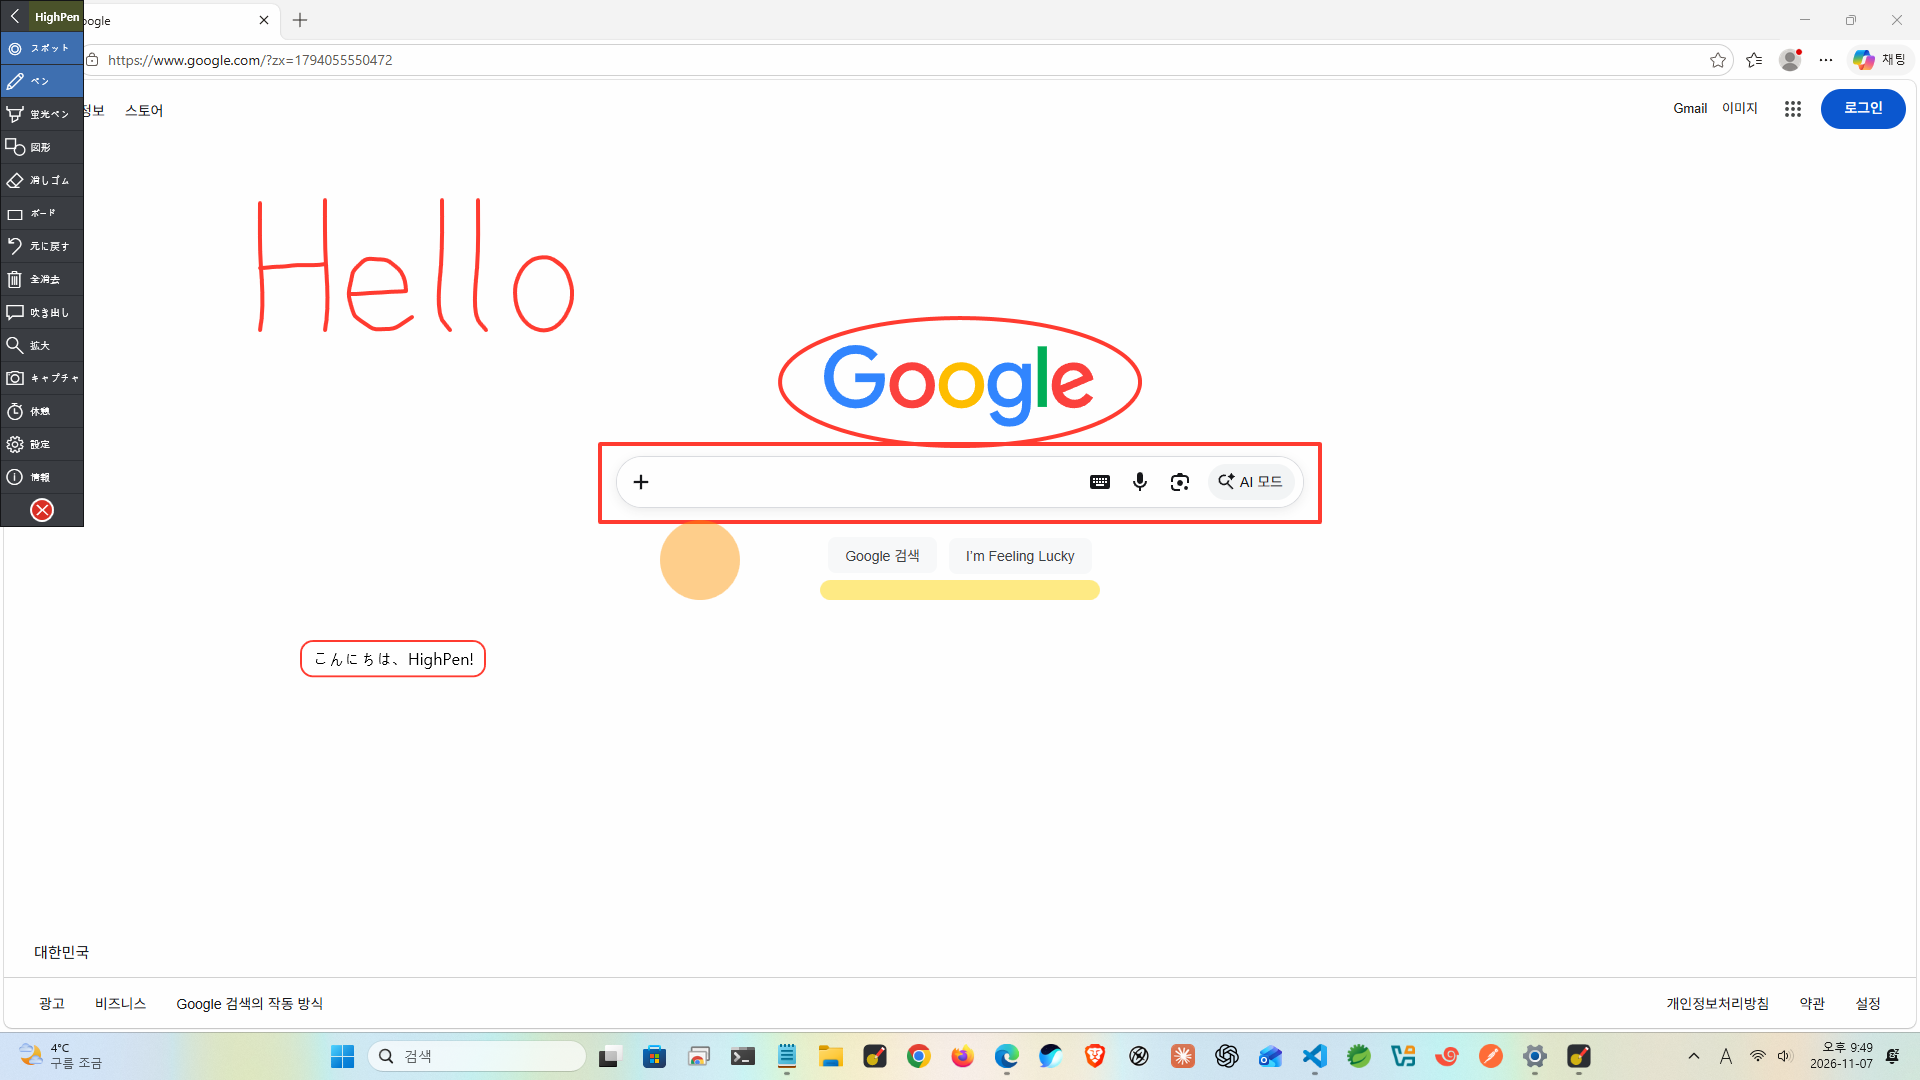
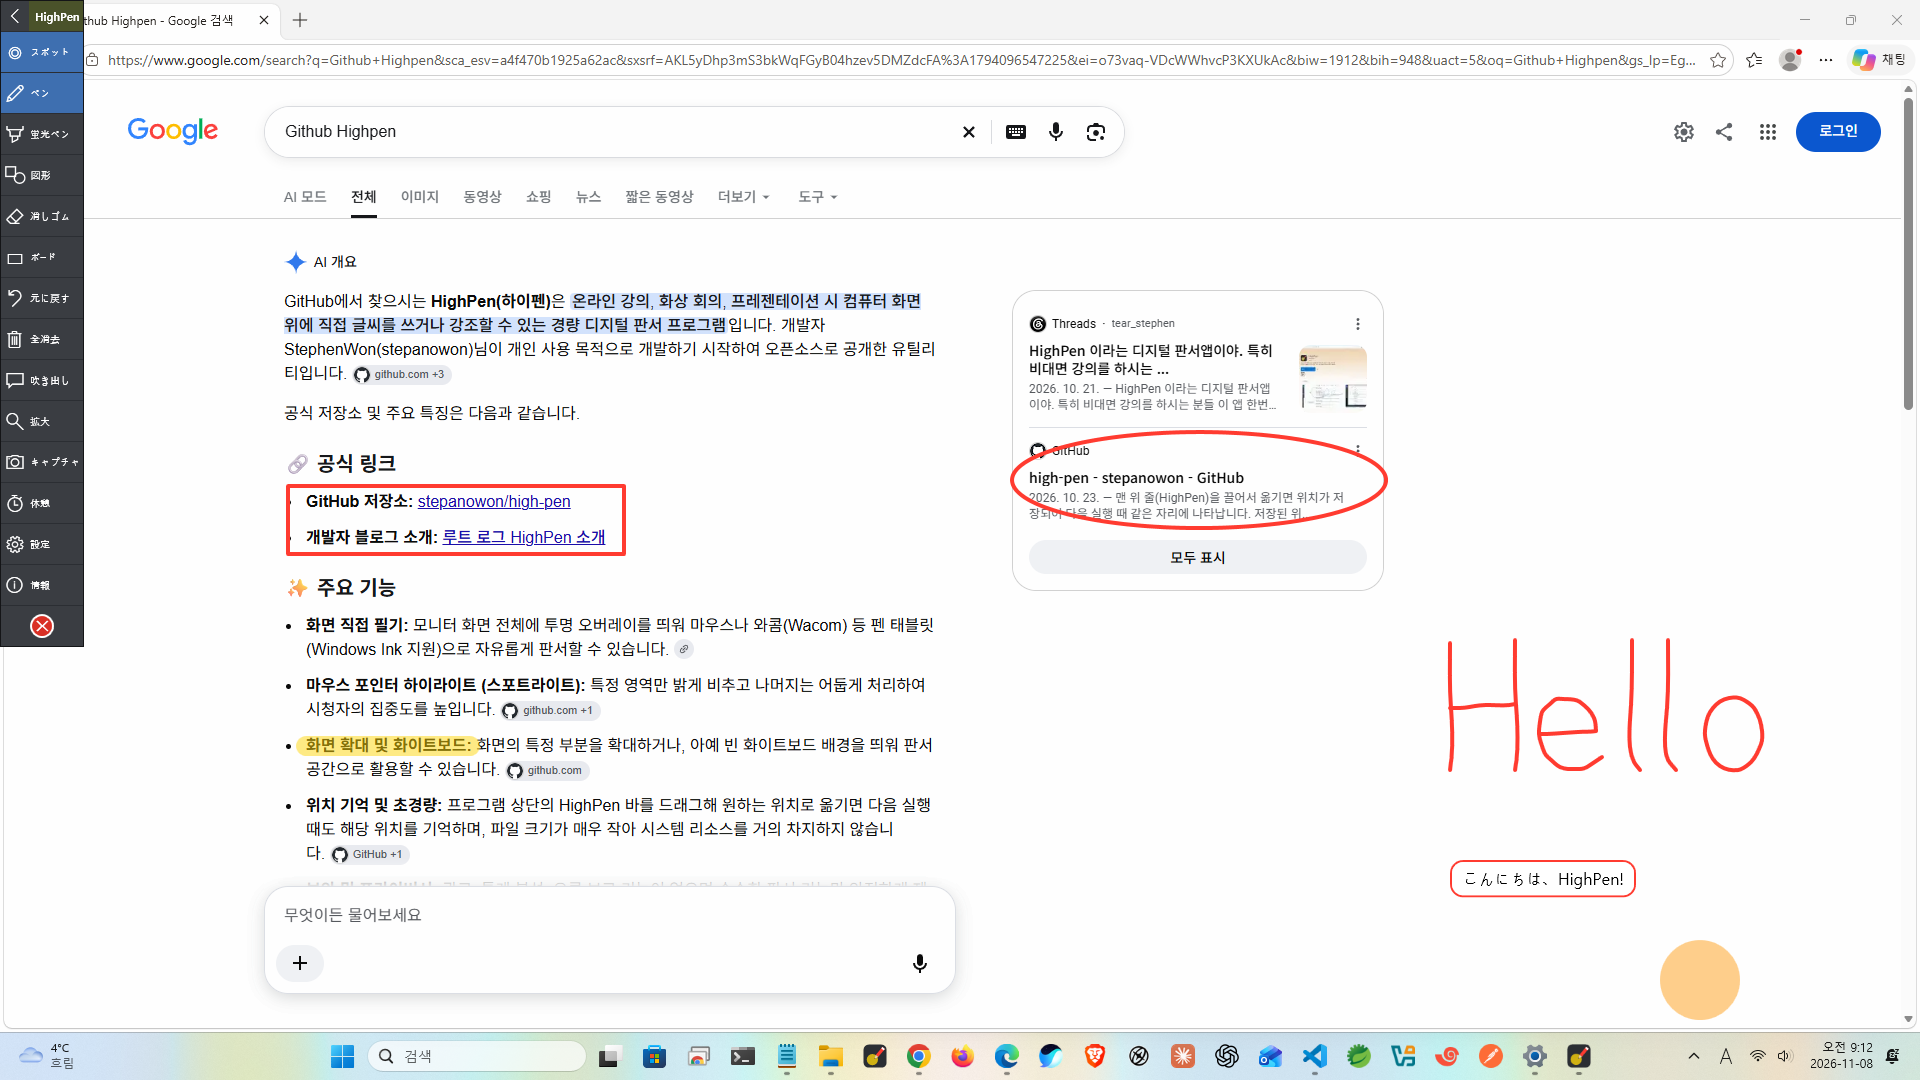
README: 1.9.1 스크린샷, 설정바 배치와 접기 설명 추가
- README 스크린샷 18장을 1.9.1 화면으로 다시 캡처
- Windows README(한·영·일)의 설정바 절을 옮기기와 배치, 접기,
  설정 패널과 버튼으로 나누고, 왼쪽·오른쪽 끝/맨 위·맨 아래 배치와
  펼친/접은 상태 스크린샷(언어별 6장) 추가
- 사용 방법 첫 문단에 끝에 붙이는 배치 안내 추가

diff --git a/windows/README.md b/windows/README.md
@@ -66,7 +66,7 @@ Windows 10/11 (.NET Framework 4.8 포함, 별도 설치 불필요)
 
 ## 사용 방법
 
-실행하면 작업 모니터의 좌측 상단에 설정바가 나타납니다. 설정바 맨 위 줄(HighPen)을 끌어 옮길 수 있고 위치는 기억됩니다. `<` 버튼으로 접고 펼 수 있습니다.
+실행하면 작업 모니터의 좌측 상단에 설정바가 나타납니다. 설정바 맨 위 줄(HighPen)을 끌어 옮길 수 있고 위치는 기억됩니다. `<` 버튼으로 접고 펼 수 있고, 화면 왼쪽·오른쪽 끝에 세로로 붙이거나 맨 위·맨 아래에 가로로 붙일 수 있습니다([설정바](#설정바) 참고).
 
 ### 언어 바꾸기
 
@@ -263,10 +263,32 @@ Windows 10/11 (.NET Framework 4.8 포함, 별도 설치 불필요)
 
 ### 설정바
 
-- 맨 위 줄(HighPen)을 끌어서 옮기면 위치가 저장되어 다음 실행 때 같은 자리에 나타납니다. 저장된 위치가 화면 밖이면 좌측 상단으로 돌아옵니다.
-- 끌면서 포인터를 작업 영역의 맨 위나 맨 아래로 가져가면 설정바가 그 끝에 붙어 가로로 바뀝니다. 가로일 때는 높이를 줄이려고 버튼에 아이콘만 표시하며, 이름과 단축키는 툴팁으로 볼 수 있습니다. 왼쪽 끝의 HighPen을 끌어 끝에서 떼면 다시 세로가 됩니다. 세로 설정바가 작업 영역의 왼쪽이나 오른쪽 끝에 닿아 있으면 맨 위나 맨 아래로 가져가도 세로로 유지됩니다. 가로로 놓으면 작업 영역 폭보다 길어지는 모니터에서는 세로로 유지됩니다.
+설정바는 원하는 자리로 옮길 수 있고, 화면 왼쪽·오른쪽 끝이나 맨 위·맨 아래에 붙이거나 접어 둘 수 있습니다.
+
+#### 옮기기와 배치
+
+- 맨 위 줄(HighPen)을 끌어서 옮깁니다. 위치는 저장되어 다음 실행 때 같은 자리에 나타나고, 저장된 위치가 화면 밖이면 좌측 상단으로 돌아옵니다.
+- **왼쪽·오른쪽 끝:** 세로 설정바를 작업 영역의 왼쪽이나 오른쪽 끝에 붙여 둘 수 있습니다. 끝에 닿아 있는 세로 설정바는 맨 위나 맨 아래로 가져가도 세로로 유지됩니다. 가장 오른쪽에 두면 접기 버튼과 HighPen의 위치가 서로 바뀝니다.
+- **맨 위·맨 아래:** 끌면서 포인터를 작업 영역의 맨 위나 맨 아래로 가져가면 설정바가 그 끝에 붙어 가로로 바뀝니다. 가로일 때는 높이를 줄이려고 버튼에 아이콘만 표시하며, 이름과 단축키는 툴팁으로 볼 수 있습니다. 왼쪽 끝의 HighPen을 끌어 끝에서 떼면 다시 세로가 됩니다. 가로로 놓으면 작업 영역 폭보다 길어지는 모니터에서는 세로로 유지됩니다.
 - 설정바는 작동 모니터 밖으로 나가지 않습니다. 끌어서 옮길 때도, 펼치거나 설정 패널을 열어 커질 때도 작동 모니터의 작업 영역(작업표시줄 제외) 안에 머뭅니다.
-- 맨 위 줄 왼쪽의 `<` 버튼으로 접고 펼 수 있습니다. 접으면 HighPen 제목도 사라지고 `>` 버튼만 남아서, 설정바 뒤에 가려져 있던 화면을 클릭할 수 있습니다. `>`를 누르면 같은 자리에 다시 펼쳐집니다. 접힌 상태에서는 설정바를 끌어 옮길 수 없습니다. 설정바를 작업 영역의 가장 오른쪽에 두면 접기 버튼과 HighPen의 위치가 서로 바뀌고, 접어도 버튼이 그 자리에 남습니다.
+
+| 왼쪽 끝 | 오른쪽 끝 |
+|---|---|
+| ![왼쪽 끝에 붙인 세로 설정바](../screen/ko/toolbar-left.png) | ![오른쪽 끝에 붙인 세로 설정바](../screen/ko/toolbar-right.png) |
+| **맨 위** | **맨 아래** |
+| ![맨 위에 붙인 가로 설정바](../screen/ko/toolbar-top.png) | ![맨 아래에 붙인 가로 설정바](../screen/ko/toolbar-bottom.png) |
+
+#### 접기
+
+- 맨 위 줄 왼쪽의 `<` 버튼이나 Ctrl+Alt+H로 접고 폅니다. 접으면 HighPen 제목도 사라지고 `>` 버튼만 남아서, 설정바 뒤에 가려져 있던 화면을 클릭할 수 있습니다. `>`를 누르면 같은 자리에 다시 펼쳐집니다.
+- 접힌 상태에서는 설정바를 끌어 옮길 수 없습니다.
+- 가장 오른쪽에 둔 설정바는 접어도 버튼이 그 자리(오른쪽 끝)에 남습니다.
+
+| 펼친 상태 | 접은 상태 |
+|---|---|
+| ![펼친 설정바](../screen/ko/toolbar-expanded.png) | ![접은 설정바](../screen/ko/toolbar-collapsed.png) |
+
+#### 설정 패널과 버튼
 
 - 설정 패널은 설정바 오른쪽에 열리고, 설정바가 화면 오른쪽 끝에 있어 공간이 부족하면 왼쪽에 열립니다. 가로일 때는 화면 안쪽(위에 붙으면 아래, 아래에 붙으면 위)에 항목을 4개 열로 펼쳐 열고, 높이가 부족하면 스크롤됩니다.
 - 각 버튼에 마우스를 올리면 이름과 단축키가 툴팁으로 표시됩니다.

diff --git a/windows/README.en.md b/windows/README.en.md
@@ -66,7 +66,7 @@ Windows 10/11 (.NET Framework 4.8 is built in, nothing else to install)
 
 ## Usage
 
-When you start the app, the toolbar appears in the top-left corner of the active monitor. Drag the top row (HighPen) to move it; the position is remembered. Use the `<` button to collapse and expand it.
+When you start the app, the toolbar appears in the top-left corner of the active monitor. Drag the top row (HighPen) to move it; the position is remembered. Use the `<` button to collapse and expand it. You can also attach it vertically to the left or right end of the screen, or horizontally to the top or bottom (see [Toolbar](#toolbar)).
 
 ### Changing the language
 
@@ -263,10 +263,32 @@ Choose the monitor the app works on with **Monitor** in the settings panel (or C
 
 ### Toolbar
 
-- Drag the top row (HighPen) to move the toolbar; the position is saved and used on the next launch. If the saved position is off screen, it returns to the top-left corner.
-- Bring the pointer to the top or bottom of the working area while dragging and the toolbar lies along that edge, horizontally. To keep it low, its buttons then show only their icons; the tooltips give their names and shortcuts. Drag HighPen at its left end away from the edge to make it vertical again. A vertical toolbar touching the left or right end of the working area stays vertical when brought to the top or bottom. On a monitor where the horizontal toolbar would be wider than the working area, it stays vertical.
+You can move the toolbar wherever you like, attach it to the left or right end or the top or bottom of the screen, or collapse it.
+
+#### Moving and placing it
+
+- Drag the top row (HighPen) to move it. The position is saved and used on the next launch; if the saved position is off screen, it returns to the top-left corner.
+- **Left or right end:** a vertical toolbar can sit against the left or right end of the working area. While it touches that end, it stays vertical even when brought to the top or bottom. At the far right, the collapse button and HighPen swap places.
+- **Top or bottom:** bring the pointer to the top or bottom of the working area while dragging and the toolbar lies along that edge, horizontally. To keep it low, its buttons then show only their icons; the tooltips give their names and shortcuts. Drag HighPen at its left end away from the edge to make it vertical again. On a monitor where the horizontal toolbar would be wider than the working area, it stays vertical.
 - The toolbar stays inside the selected monitor. Whether you drag it or it grows (expanding, opening the settings panel), it is kept within that monitor's work area (excluding the taskbar).
-- Use the `<` button on the left of the top row to collapse and expand it. When collapsed, the HighPen title disappears too and only the `>` button remains, so you can click what was behind the toolbar. Press `>` to expand it again in the same place. The toolbar cannot be dragged while collapsed. With the toolbar at the far right of the working area, the collapse button and HighPen swap places, and the button stays where it is when collapsed.
+
+| Left end | Right end |
+|---|---|
+| ![Vertical toolbar at the left end](../screen/en/toolbar-left.png) | ![Vertical toolbar at the right end](../screen/en/toolbar-right.png) |
+| **Top** | **Bottom** |
+| ![Horizontal toolbar along the top](../screen/en/toolbar-top.png) | ![Horizontal toolbar along the bottom](../screen/en/toolbar-bottom.png) |
+
+#### Collapsing it
+
+- Use the `<` button on the left of the top row, or Ctrl+Alt+H, to collapse and expand it. When collapsed, the HighPen title disappears too and only the `>` button remains, so you can click what was behind the toolbar. Press `>` to expand it again in the same place.
+- The toolbar cannot be dragged while collapsed.
+- At the far right, the button stays where it is (at the right end) when collapsed.
+
+| Expanded | Collapsed |
+|---|---|
+| ![Expanded toolbar](../screen/en/toolbar-expanded.png) | ![Collapsed toolbar](../screen/en/toolbar-collapsed.png) |
+
+#### Settings panel and buttons
 
 - The settings panel opens to the right of the toolbar, or to its left when the toolbar is at the right edge of the screen. A horizontal toolbar opens it toward the middle of the screen (below on the top edge, above on the bottom edge) with its settings in four columns, and it scrolls when there is not enough height.
 - Hovering over a button shows its name and shortcut as a tooltip.

diff --git a/windows/deploy/progress.md b/windows/deploy/progress.md
@@ -50,7 +50,7 @@
 | 1.9.0 기능: 도형, 설정바·설정 화면 축소, 스팟 불투명도 | 완료 | [#67](https://github.com/stepanowon/high-pen/pull/67) 병합(main `bdfee72`). 도형 버튼(Ctrl+Alt+O, 사각형 → 원 → 끄기)으로 사각형·원(타원)을 그림. Shift를 누르면 정사각형·정원. 도형은 펜 획이라 지우개·되돌리기·캡처·칠판·확대 중 필기가 그대로 적용됨. 세로 설정바는 아이콘 오른쪽에 이름을 두는 한 줄 배치로 바꿔 높이 827px → 527px(폭 84px 유지). 설정 화면 글자를 10px로 맞추고 색 원을 16px로 줄여 폭 211px → 181px, 쉬는 시간 버튼은 10·15·60·90분 한 줄. 스팟 불투명도 10~100%(기본 40%, 이전과 같음) 추가. 테스트: 실제 앱을 입력 합성·픽셀·스크린샷으로 확인. 도형 시작점이 어긋난 3건은 테스트 중 사용자 마우스 조작으로 추정되며 재실행하지 않음. 레이아웃·불투명도 테스트는 마우스 없이 단축키와 설정 파일로만 확인. 와콤 펜, 100%가 아닌 DPI는 시험하지 못함. macOS는 1.5.0에서 반영 |
 | 1.9.0 GitHub 릴리스 | 완료 | 사용자 요청으로 Store 게시 **전에** GitHub 릴리스 [HighPen v1.9.0](https://github.com/stepanowon/high-pen/releases/tag/v1.9.0) (`HighPen-Setup.exe` `fa728b75…`, `HighPen.exe` `38f49631…`, `HighPen.msix` `a867190b…`, `SHA256SUMS.txt`), 한·일·영 변경 내용 포함. 공개 주소에서 받은 파일의 해시가 SHA256SUMS.txt와 같음 확인. 한·영·일 Windows README의 다운로드 링크와 버전 표기를 v1.9.0으로 변경 |
 | 1.9.1 기능: 세로 설정바 항목 높이 | 병합 대기 | `feat/toolbar-row-height`. 세로 설정바 항목 높이를 32px에서 40px로 키움(설정바 84×527 → 84×647). 아이콘 오른쪽 이름 배치, 글자·아이콘 크기, 가로 설정바(927×37), 설정 화면은 그대로. 이름을 아이콘 아래로 되돌린 시도(84×827)는 사용자 판단으로 취소. 테스트: 한·일·영에서 설정바 크기와 모든 상태의 이름(사각형, 원, 검은 칠판 등)이 잘리지 않음을 단축키와 설정 파일로만 확인(마우스 없음) |
-| 1.9.1 GitHub 릴리스 | 대기 | Store 게시 후 만든다. 한·영·일 README의 다운로드 링크와 버전 표기는 그때 v1.9.1로 바꾼다. README 스크린샷(`screen/ko`, `ja`, `en`)은 항목 높이 32px 설정바 모습 |
+| 1.9.1 GitHub 릴리스 | 대기 | Store 게시 후 만든다. 한·영·일 README의 다운로드 링크와 버전 표기는 그때 v1.9.1로 바꾼다. README 스크린샷(`screen/ko`, `ja`, `en`)은 1.9.1로 다시 캡처함. Windows README에 설정바 배치(왼쪽·오른쪽 끝, 맨 위·맨 아래)와 접기 설명·스크린샷 추가 |
 
 ### macOS
 
